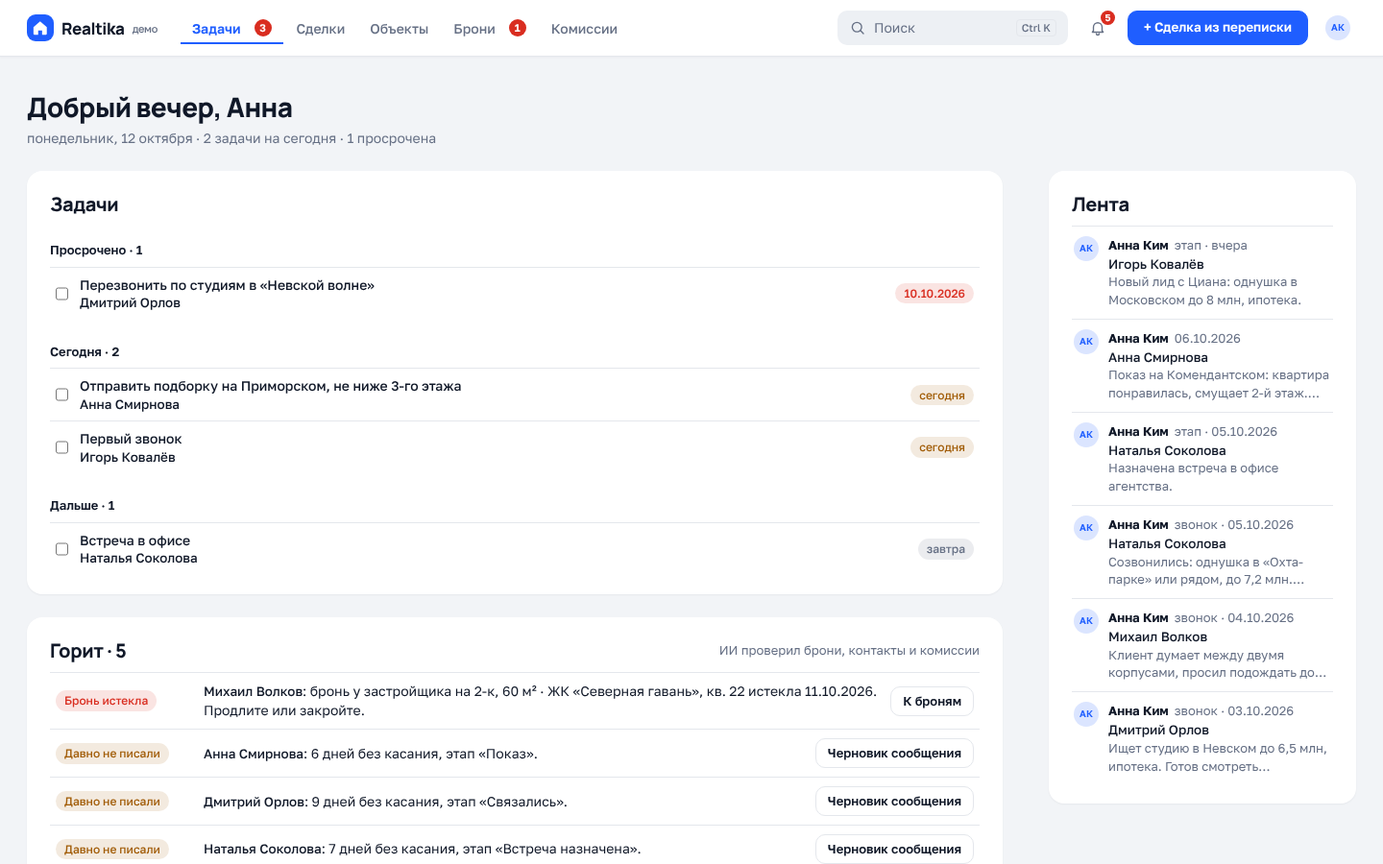
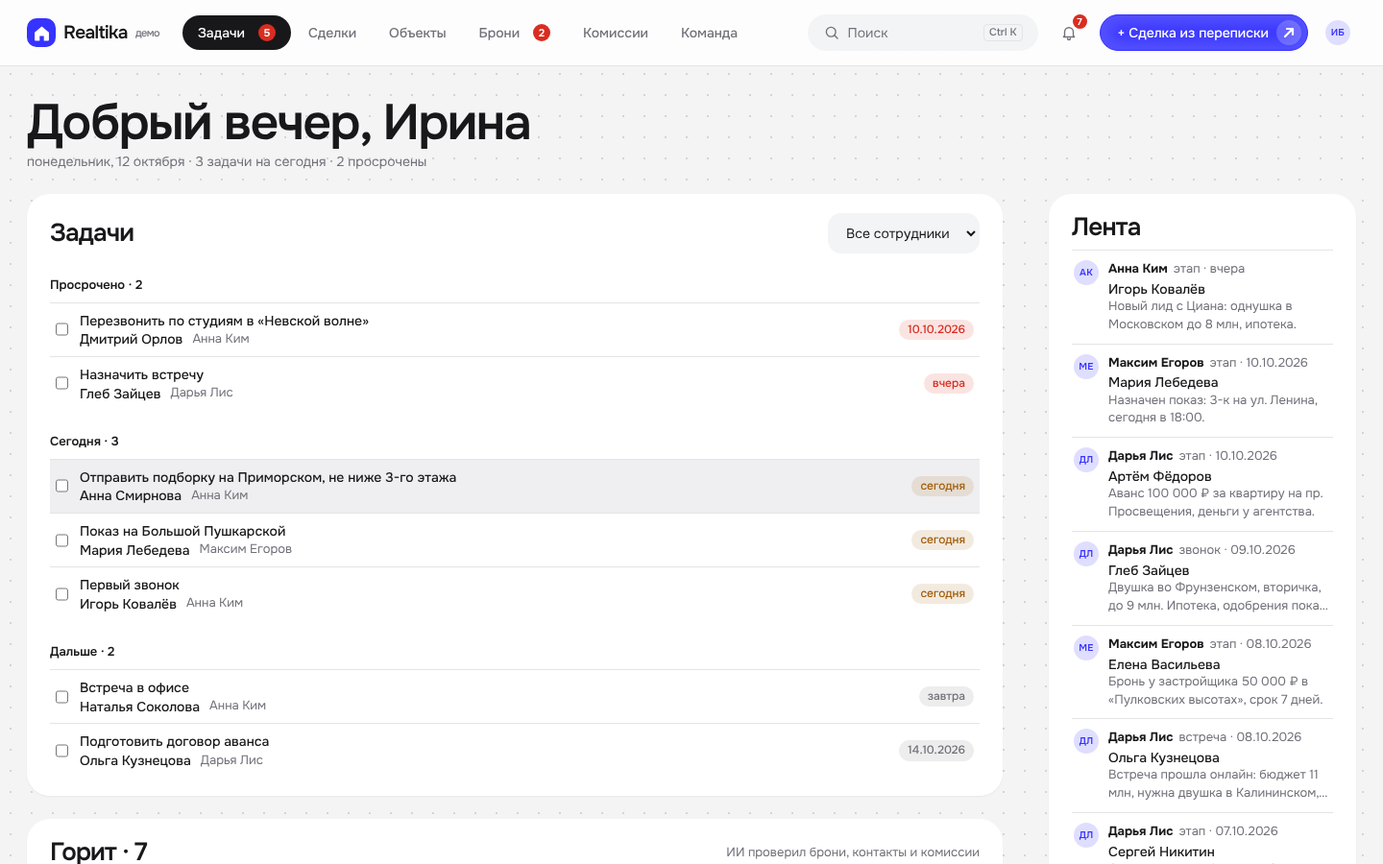
design: TrendAgent palette, Onest type, pill buttons and motion
Indigo/orange on zinc with a dot-grid background, pill buttons with inner glow
and a flying-arrow hover, 3D flipping fact cube on login, staggered fade-up of
blocks on tab open and scroll, card lift with photo zoom, drawer/modal entrance.
Animations stay off under prefers-reduced-motion.

Claude-Session: https://claude.ai/code/session_01WGyjb6ifj2QD7Cnku9bK9v

diff --git a/app/index.html b/app/index.html
@@ -2,22 +2,23 @@
 <title>Realtika</title>
 <link rel="preconnect" href="https://fonts.googleapis.com">
 <link rel="preconnect" href="https://fonts.gstatic.com" crossorigin>
-<link rel="stylesheet" href="https://fonts.googleapis.com/css2?family=Golos+Text:wght@400;500;600;700&family=Manrope:wght@600;700;800&display=swap">
+<link rel="stylesheet" href="https://fonts.googleapis.com/css2?family=Onest:wght@400;500;600;700&display=swap">
 <link rel="stylesheet" href="https://cdn.jsdelivr.net/npm/leaflet@1.9.4/dist/leaflet.css">
 <style>
 /* Layout в духе каталогов новостроек: белая шапка с разделами сверху (на телефоне вкладки снизу), светло-серый фон,
    контент на белых скруглённых плашках, крупные карточки объектов с фото. Сделка выезжает справа. */
-/* Цветовые схемы. Базовая — «Тренд»: белая шапка, холодный серый фон, яркий синий для главного действия.
-   Остальные включаются атрибутом data-palette на <html> из настроек кабинета. */
+/* Цветовые схемы. Базовая — «Тренд»: нейтральный серый фон в точку, белые плашки, индиго для главного действия,
+   оранжевый как второй акцент. Остальные включаются атрибутом data-palette на <html> из настроек кабинета. */
 :root {
-  --bg: #F2F4F7; --surface: #FFFFFF; --sunken: #EDF0F4; --hover: #E6EAF0; --ink: #101828; --muted: #667085; --line: #E4E7EC;
-  --accent: #1F5EFF; --accent-ink: #FFFFFF; --accent-d: #7DA2FF; --accent-ink-d: #050D24;
-  --side-bg: #FFFFFF; --side-ink: #101828; --side-muted: #667085; --side-hover: #EDF0F4; --side-line: #E4E7EC; --side-field: #EDF0F4;
-  --panel: #0B1B3F;
+  --bg: #F4F4F5; --surface: #FFFFFF; --sunken: #F3F4F6; --hover: #E4E4E7; --ink: #18181B; --muted: #71717A; --line: #E4E4E7; --dot: #D4D4D8;
+  --accent: #3733FF; --accent-ink: #FFFFFF; --accent-d: #8F8CFF; --accent-ink-d: #07063A; --hot: #FE4B01;
+  --side-bg: #FFFFFF; --side-ink: #18181B; --side-muted: #71717A; --side-hover: #F3F4F6; --side-line: #E4E4E7; --side-field: #F3F4F6;
+  --panel: #18181B;
   --ok: #12805C; --warn: #A15C07; --crit: #D92D20;
-  --f-display: Manrope, "Golos Text", system-ui, -apple-system, "Segoe UI", Roboto, sans-serif;
-  --f-body: "Golos Text", system-ui, -apple-system, "Segoe UI", Roboto, sans-serif;
-  --r: 16px;
+  --f-display: Onest, system-ui, -apple-system, "Segoe UI", Roboto, sans-serif;
+  --f-body: Onest, system-ui, -apple-system, "Segoe UI", Roboto, sans-serif;
+  --ease: cubic-bezier(.165, .84, .44, 1); /* плавное торможение, как у слайдеров на trendagent.ru */
+  --r: 24px;
   --s1: 8px; --s2: 24px; --s3: 56px; /* внутри элемента / между элементами / между секциями */
 }
 :root[data-palette="graphite"] {
@@ -56,21 +57,22 @@
     --bg: #111213; --surface: #18191B; --sunken: #1F2023; --hover: #232427; --ink: #E9E9E7; --muted: #9C9D99; --line: #2A2B2E;
     --accent: var(--accent-d); --accent-ink: var(--accent-ink-d);
     --side-bg: #141516; --side-ink: #E9E9E7; --side-muted: #9C9D99; --side-hover: #232427; --side-line: #2A2B2E; --side-field: #1B1C1E;
-    --ok: #4CC38A; --warn: #E3A04A; --crit: #F07468; color-scheme: dark;
+    --ok: #4CC38A; --warn: #E3A04A; --crit: #F07468; --dot: #26272A; color-scheme: dark;
   }
 }
 :root[data-theme="dark"] {
   --bg: #111213; --surface: #18191B; --sunken: #1F2023; --hover: #232427; --ink: #E9E9E7; --muted: #9C9D99; --line: #2A2B2E;
   --accent: var(--accent-d); --accent-ink: var(--accent-ink-d);
   --side-bg: #141516; --side-ink: #E9E9E7; --side-muted: #9C9D99; --side-hover: #232427; --side-line: #2A2B2E; --side-field: #1B1C1E;
-  --ok: #4CC38A; --warn: #E3A04A; --crit: #F07468; color-scheme: dark;
+  --ok: #4CC38A; --warn: #E3A04A; --crit: #F07468; --dot: #26272A; color-scheme: dark;
 }
 [hidden] { display: none !important; }
-body { margin: 0; background: var(--bg); color: var(--ink); font: 14px/1.45 var(--f-body); }
+body { margin: 0; background: radial-gradient(circle, var(--dot) 1px, transparent 1.5px) 0 0 / 22px 22px fixed, var(--bg); color: var(--ink); font: 14px/1.45 var(--f-body); }
 .wrap { max-width: 1440px; margin: 0 auto; padding-inline: 16px; box-sizing: border-box; }
 h1, h2, h3 { margin: 0; text-wrap: balance; }
-h1, h2 { font-family: var(--f-display); font-weight: 800; letter-spacing: -.02em; }
-h2 { font-size: 20px; }
+h1, h2 { font-family: var(--f-display); font-weight: 600; letter-spacing: -.03em; }
+h2 { font-size: 26px; line-height: 1.15; }
+.dlg h2 { font-size: 20px; }
 .muted { color: var(--muted); }
 .small { font-size: 13px; }
 :focus-visible { outline: 2px solid var(--accent); outline-offset: 2px; }
@@ -78,9 +80,9 @@ h2 { font-size: 20px; }
 .shell { display: grid; grid-template-columns: 232px minmax(0, 1fr); min-height: 100vh; }
 .side { position: sticky; top: 0; height: 100vh; box-sizing: border-box; background: var(--side-bg); color: var(--side-ink); border-right: 1px solid var(--side-line); padding: 12px 10px; display: flex; flex-direction: column; gap: 10px; }
 .side-head { display: flex; align-items: center; justify-content: space-between; gap: 8px; padding: 2px 4px; }
-.logo { display: flex; align-items: center; gap: 8px; font: 800 17px/1 var(--f-display); letter-spacing: -.02em; }
+.logo { display: flex; align-items: center; gap: 8px; font: 600 19px/1 var(--f-display); letter-spacing: -.03em; }
 .logo small { font: 500 11px/1 var(--f-body); color: var(--side-muted); }
-.mark { width: 28px; height: 28px; border-radius: 9px; background: var(--accent); color: var(--accent-ink); display: grid; place-items: center; flex: none; }
+.mark { width: 30px; height: 30px; border-radius: 10px; background: var(--accent); color: var(--accent-ink); display: grid; place-items: center; flex: none; }
 .mark svg { width: 70%; height: 70%; fill: currentColor; }
 .icon-btn { position: relative; width: 30px; height: 30px; display: grid; place-items: center; border: 0; border-radius: 6px; background: none; color: var(--side-muted); cursor: pointer; }
 .icon-btn:hover { background: var(--side-hover); color: var(--side-ink); }
@@ -107,20 +109,17 @@ nav.tabs { display: grid; gap: 1px; flex: 1; align-content: start; }
 .avatar.big { --size: 88px; }
 
 .login { min-height: 100vh; min-height: 100dvh; display: grid; place-items: center; padding-block: 24px; box-sizing: border-box; }
-.login-card { width: min(900px, 100%); display: grid; grid-template-columns: 1fr 1fr; background: var(--surface); border-radius: 24px; box-shadow: 0 24px 48px rgb(16 24 40 / .08); overflow: hidden; }
-.login-brand { background: var(--panel); color: #F4F3F1; padding: 40px; display: grid; gap: 18px; align-content: space-between; }
+.login-card { width: min(960px, 100%); display: grid; grid-template-columns: 1fr 1fr; gap: 8px; padding: 8px; box-sizing: border-box; background: var(--surface); border-radius: 32px; box-shadow: 0 24px 48px rgb(16 24 40 / .08); overflow: hidden; }
+.login-brand { background: var(--panel); color: #F4F3F1; border-radius: 26px; padding: 36px; display: grid; gap: 18px; align-content: space-between; }
 .login-brand .logo { font-size: 24px; gap: 10px; }
-.login-brand .mark { width: 32px; height: 32px; border-radius: 8px; }
-.login-brand .lead { font-size: 17px; line-height: 1.4; margin: 0; max-width: 30ch; }
-.login-brand ul { margin: 0; padding: 0; list-style: none; display: grid; gap: 10px; }
-.login-brand li { display: flex; gap: 10px; align-items: start; }
-.login-brand li::before { content: ""; width: 6px; height: 6px; margin-top: 8px; border-radius: 50%; background: currentColor; opacity: .5; flex: none; }
+.login-brand .mark { width: 32px; height: 32px; border-radius: 10px; }
+.login-brand .lead { font: 500 30px/1.1 var(--f-display); letter-spacing: -.03em; margin: 0; max-width: 16ch; }
 .login-brand .fine { font-size: 12px; opacity: .8; margin: 0; }
 .login-form { padding: 40px; display: grid; gap: 14px; align-content: start; }
 .login-form h1 { font-size: 24px; }
 .login-form .btn.primary { padding-block: 11px; justify-content: center; }
 .demo-acc { display: grid; gap: 6px; border-top: 1px solid var(--line); padding-top: 14px; margin-top: 4px; }
-.acc { display: flex; align-items: center; gap: 10px; width: 100%; text-align: left; font: inherit; color: var(--ink); background: var(--sunken); border: 0; border-radius: 12px; padding: 8px 12px; cursor: pointer; }
+.acc { display: flex; align-items: center; gap: 10px; width: 100%; text-align: left; font: inherit; color: var(--ink); background: var(--sunken); border: 0; border-radius: 999px; padding: 6px 16px 6px 6px; cursor: pointer; }
 .acc:hover { background: var(--hover); }
 .acc .avatar { --size: 30px; }
 .acc small { display: block; color: var(--muted); font-size: 12px; }
@@ -136,11 +135,17 @@ nav.tabs { display: grid; gap: 1px; flex: 1; align-content: start; }
 .panel { border-top: 1px solid var(--line); padding-top: 16px; display: grid; gap: 12px; }
 .panel h3 { font-size: 15px; }
 
-.btn { font: 600 13.5px/1.3 var(--f-body); padding: 8px 16px; border-radius: 10px; border: 1px solid var(--line); background: var(--surface); color: var(--ink); cursor: pointer; white-space: nowrap; }
+.btn { font: 500 14px/1.3 var(--f-body); padding: 9px 18px; border-radius: 999px; border: 1px solid var(--line); background: var(--surface); color: var(--ink); cursor: pointer; white-space: nowrap; }
 .btn:hover { border-color: color-mix(in srgb, var(--ink) 28%, var(--line)); }
 .btn.primary:hover { background: color-mix(in srgb, var(--accent) 88%, var(--ink)); }
 .btn:disabled { opacity: .4; cursor: default; }
 .btn.primary { background: var(--accent); border-color: var(--accent); color: var(--accent-ink); }
+.btn.primary:not(:hover):not(:disabled) { box-shadow: inset 0 0 15px 10px rgb(255 255 255 / .15); }
+.btn:active:not(:disabled) { transform: scale(.98); }
+/* Круг со стрелкой в главной кнопке: при наведении стрелка улетает вверх-вправо, новая прилетает снизу-слева */
+.arr { position: relative; width: 26px; height: 26px; margin: -4px -12px -4px 8px; border-radius: 50%; background: rgb(255 255 255 / .2); overflow: hidden; display: inline-block; vertical-align: middle; flex: none; }
+.arr svg { position: absolute; inset: 7px; width: 12px; height: 12px; fill: none; stroke: currentColor; stroke-width: 2.2; stroke-linecap: round; stroke-linejoin: round; }
+.arr svg + svg { transform: translate(-130%, 130%); }
 .btn.sm { padding: 6px 12px; font-size: 13px; }
 a.btn { text-decoration: none; display: inline-flex; align-items: center; gap: 6px; }
 .btn.call svg { width: 15px; height: 15px; fill: none; stroke: currentColor; stroke-width: 2; stroke-linejoin: round; }
@@ -162,7 +167,7 @@ main { max-width: 1400px; padding-block: 32px 64px; display: grid; grid-template
 
 .stats { display: flex; flex-wrap: wrap; gap: var(--s2) 48px; }
 .stat { display: grid; gap: 2px; }
-.stat b { font: 600 20px/1.25 var(--f-body); font-variant-numeric: tabular-nums; letter-spacing: -.01em; }
+.stat b { font: 600 26px/1.15 var(--f-display); letter-spacing: -.03em; font-variant-numeric: tabular-nums; letter-spacing: -.01em; }
 
 .list { border-top: 1px solid var(--line); }
 .list > * { border-bottom: 1px solid var(--line); }
@@ -177,10 +182,10 @@ main { max-width: 1400px; padding-block: 32px 64px; display: grid; grid-template
 .empty { padding: 16px 6px; color: var(--muted); }
 
 .kanban { display: grid; grid-auto-flow: column; grid-auto-columns: minmax(200px, 1fr); gap: 10px; overflow-x: auto; padding-bottom: 8px; align-items: start; }
-.col { background: var(--hover); border-radius: 14px; padding: 8px; display: grid; gap: 8px; align-content: start; min-height: 120px; }
+.col { background: color-mix(in srgb, var(--hover) 70%, transparent); border-radius: 20px; padding: 8px; display: grid; gap: 8px; align-content: start; min-height: 120px; }
 .col.over { outline: 2px dashed var(--accent); outline-offset: -2px; }
 .col h3 { font-size: 13px; font-weight: 600; color: var(--ink); display: flex; justify-content: space-between; gap: 8px; padding: 2px 4px; }
-.card { display: grid; gap: 3px; width: 100%; text-align: left; font: inherit; color: inherit; background: var(--surface); border: 1px solid transparent; border-radius: 12px; padding: 10px 12px; cursor: grab; box-shadow: 0 1px 2px rgb(16 24 40 / .06); }
+.card { display: grid; gap: 3px; width: 100%; text-align: left; font: inherit; color: inherit; background: var(--surface); border: 1px solid transparent; border-radius: 16px; padding: 12px 14px; cursor: grab; box-shadow: 0 1px 2px rgb(16 24 40 / .06); }
 .card:hover { border-color: color-mix(in srgb, var(--ink) 25%, var(--line)); }
 .card.dragging { opacity: .45; }
 .card strong { font-weight: 600; }
@@ -218,7 +223,7 @@ dt { color: var(--muted); } dd { margin: 0; }
 .err { color: var(--crit); font-size: 13px; margin: 0; }
 
 label { font-size: 12.5px; font-weight: 500; color: var(--muted); }
-input, select, textarea { font: inherit; padding: 9px 12px; border: 1px solid transparent; border-radius: 10px; background: var(--sunken); color: var(--ink); width: 100%; box-sizing: border-box; }
+input, select, textarea { font: inherit; padding: 10px 14px; border: 1px solid transparent; border-radius: 14px; background: var(--sunken); color: var(--ink); width: 100%; box-sizing: border-box; }
 input:focus, select:focus, textarea:focus { outline: none; background: var(--surface); border-color: var(--accent); box-shadow: 0 0 0 3px color-mix(in srgb, var(--accent) 18%, transparent); }
 input[type="checkbox"] { width: auto; }
 textarea { resize: vertical; }
@@ -236,7 +241,7 @@ textarea { resize: vertical; }
 .toast button { font: 600 14px var(--f-body); color: inherit; background: none; border: 0; padding: 0; cursor: pointer; text-decoration: underline; }
 .toast[hidden] { display: none; }
 .btn[aria-busy="true"] { opacity: .7; cursor: progress; }
-.toast { display: flex; align-items: center; gap: 16px; position: fixed; left: 50%; bottom: calc(20px + env(safe-area-inset-bottom, 0px)); transform: translateX(-50%); background: var(--ink); color: var(--bg); padding: 10px 16px; border-radius: 8px; font-size: 14px; z-index: 1000; max-width: calc(100% - 32px); box-sizing: border-box; }
+.toast { display: flex; align-items: center; gap: 16px; position: fixed; left: 50%; bottom: calc(20px + env(safe-area-inset-bottom, 0px)); transform: translateX(-50%); background: var(--ink); color: var(--bg); padding: 12px 20px; border-radius: 999px; font-size: 14px; z-index: 1000; max-width: calc(100% - 32px); box-sizing: border-box; }
 @media (max-width: 640px) { .stage-row { grid-template-columns: 1fr 1fr; } }
 
 .invoice { border: 1px solid var(--line); border-radius: 8px; padding: 16px; display: grid; gap: 12px; background: var(--bg); }
@@ -275,20 +280,21 @@ dialog.modal.wide { width: min(860px, calc(100% - 32px)); }
 .filters .wide-field { grid-column: 1 / -1; }
 .range { display: grid; grid-template-columns: 1fr 1fr; gap: 6px; }
 .lbl { font-size: 12.5px; font-weight: 500; color: var(--muted); }
-.seg { display: inline-flex; gap: 2px; padding: 3px; background: var(--sunken); border-radius: 12px; }
-.seg .btn { border: 0; border-radius: 9px; background: none; }
+.seg { display: inline-flex; gap: 2px; padding: 3px; background: var(--sunken); border-radius: 999px; }
+.seg .btn { border: 0; background: none; }
 .seg .btn[aria-pressed="true"] { background: var(--surface); color: var(--ink); box-shadow: 0 1px 3px rgb(16 24 40 / .12); }
 .results { display: grid; grid-template-columns: repeat(auto-fill, minmax(280px, 1fr)); gap: 20px; }
-.rcard { background: var(--surface); border-radius: var(--r); box-shadow: 0 1px 2px rgb(16 24 40 / .05); transition: box-shadow .2s, transform .2s; overflow: hidden; display: grid; grid-template-rows: auto 1fr; grid-template-columns: minmax(0, 1fr); }
+.rcard { background: var(--surface); border-radius: var(--r); box-shadow: 0 1px 2px rgb(16 24 40 / .05); transition: box-shadow .2s; overflow: hidden; display: grid; grid-template-rows: auto 1fr; grid-template-columns: minmax(0, 1fr); }
 .rcard:hover { box-shadow: 0 12px 28px rgb(16 24 40 / .12); }
 .rphoto { display: block; position: relative; padding: 0; border: 0; background: var(--sunken); cursor: pointer; aspect-ratio: 4 / 3; width: 100%; }
 .rphoto img, .rphoto svg, .gallery img, .gallery svg { width: 100%; height: 100%; object-fit: cover; display: block; }
-.badge { position: absolute; left: 12px; top: 12px; font: 600 12px/1 var(--f-body); padding: 6px 10px; border-radius: 999px; background: rgb(255 255 255 / .92); color: #101828; }
+.rphoto { overflow: hidden; }
+.badge { position: absolute; left: 12px; top: 12px; z-index: 1; font: 500 12px/1 var(--f-body); padding: 7px 12px; border-radius: 999px; background: var(--hot); color: #fff; }
 .rbody { padding: 16px 18px 18px; display: grid; gap: 8px; align-content: start; }
 .rtitle { display: flex; flex-wrap: wrap; justify-content: space-between; gap: 4px 8px; align-items: start; }
-.rtitle .btn.link { color: var(--ink); font: 700 16px/1.3 var(--f-display); text-decoration: none; }
+.rtitle .btn.link { color: var(--ink); font: 600 17px/1.3 var(--f-display); letter-spacing: -.02em; text-decoration: none; }
 .rtitle .btn.link:hover { color: var(--accent); }
-.price { font: 800 21px/1.2 var(--f-display); letter-spacing: -.01em; font-variant-numeric: tabular-nums; }
+.price { font: 600 22px/1.2 var(--f-display); letter-spacing: -.03em; font-variant-numeric: tabular-nums; }
 .ulist { list-style: none; margin: 0; padding: 0; display: grid; gap: 2px; font-size: 13px; }
 .ulist li { display: flex; justify-content: space-between; gap: 8px; font-variant-numeric: tabular-nums; }
 .ulist .btn.link { color: var(--ink); text-decoration: none; }
@@ -305,7 +311,7 @@ dialog.modal.wide { width: min(860px, calc(100% - 32px)); }
 .info { color: var(--ok); font-size: 13px; margin: 0; }
 
 .hello { display: grid; gap: 2px; }
-.hello h1 { font-size: 28px; }
+.hello h1 { font-size: clamp(32px, 4vw, 52px); line-height: 1.05; }
 .dash { display: grid; grid-template-columns: minmax(0, 1fr) 320px; gap: 48px; align-items: start; }
 .hello + .dash { margin-top: calc(var(--s2) - var(--s3)); }
 .dash-main { display: grid; gap: var(--s2); min-width: 0; }
@@ -331,21 +337,22 @@ dialog.modal.search { margin-top: 12vh; width: min(580px, calc(100% - 32px)); }
 /* Компьютер: меню — горизонтальная белая шапка сверху вместо колонки слева */
 @media (min-width: 641px) {
   .shell { display: block; }
-  .side { position: sticky; top: 0; z-index: 40; height: auto; flex-direction: row; align-items: center; gap: 4px 12px; padding: 10px 28px; border-right: 0; border-bottom: 1px solid var(--side-line); box-shadow: 0 1px 2px rgb(16 24 40 / .04); }
+  .side { position: sticky; top: 0; z-index: 40; height: auto; flex-direction: row; align-items: center; gap: 4px 12px; padding: 14px 28px; border-right: 0; border-bottom: 1px solid var(--side-line); background: color-mix(in srgb, var(--side-bg) 82%, transparent); -webkit-backdrop-filter: blur(14px); backdrop-filter: blur(14px); }
   .side-head { display: contents; }
   .side .logo { order: 0; margin-right: 12px; }
   nav.tabs { order: 1; display: flex; flex: 1; gap: 2px; }
-  .tab { padding: 8px 12px; border-radius: 10px; white-space: nowrap; }
+  .tab { padding: 9px 16px; border-radius: 999px; white-space: nowrap; }
   .tab svg { display: none; }
-  .tab[aria-current="page"] { background: none; color: var(--accent); box-shadow: inset 0 -2px 0 var(--accent); border-radius: 0; }
+  .tab[aria-current="page"] { background: var(--ink); color: var(--surface); font-weight: 500; }
   .tab b { margin-left: 4px; }
-  .side-search { order: 2; width: 240px; border: 0; border-radius: 10px; padding: 8px 12px; }
-  .side .icon-btn { order: 3; width: 38px; height: 38px; border-radius: 10px; }
+  .side-search { order: 2; width: 240px; border: 0; border-radius: 999px; padding: 9px 16px; }
+  .side .icon-btn { order: 3; width: 40px; height: 40px; border-radius: 50%; }
   .side-new { order: 4; width: auto; }
   .me { order: 5; width: auto; }
   .me-name { display: none; }
   .main-col { max-width: 1400px; margin: 0 auto; }
 }
+@media (min-width: 641px) and (max-width: 1320px) { .side-search { width: 180px; } .side-search kbd { display: none; } }
 @media (min-width: 641px) and (max-width: 1100px) {
   .side { flex-wrap: wrap; padding-inline: 16px; }
   .side-search { width: auto; }
@@ -371,13 +378,15 @@ footer { padding-block: 16px 32px; border-top: 1px solid var(--line); display: f
   .side-search { width: auto; padding: 6px; border: 0; background: none; }
   .side-search span, .side-search kbd { display: none; }
   .main-col { padding-inline: 16px; }
+  .side-new .arr { display: none; }
   .side-new { width: auto; position: fixed; right: 16px; bottom: calc(78px + env(safe-area-inset-bottom, 0px)); z-index: 51; border-radius: 999px; padding: 12px 18px; box-shadow: 0 4px 14px rgb(0 0 0 / .25); }
   .me { width: auto; padding: 2px; }
   .me-name { display: none; }
   .login-card { grid-template-columns: 1fr; border-radius: 12px; }
   .login-brand, .login-form { padding: 24px 20px; }
   .login-brand .logo { font-size: 28px; }
-  .login-brand ul, .login-brand .fine { display: none; }
+  .login-brand .flip, .login-brand .fine { display: none; }
+  .login-brand .lead { font-size: 22px; }
   nav.tabs { position: fixed; left: 0; right: 0; bottom: 0; z-index: 50; display: grid; grid-auto-flow: column; grid-auto-columns: 1fr; gap: 0;
     background: var(--surface); border-top: 1px solid var(--line); padding: 4px 2px calc(4px + env(safe-area-inset-bottom, 0px)); }
   .tab { flex-direction: column; align-items: center; gap: 2px; font-size: 11px; padding: 6px 2px; border-radius: 8px; position: relative; }
@@ -419,8 +428,34 @@ footer { padding-block: 16px 32px; border-top: 1px solid var(--line); display: f
   .tbl.cards td:last-child:empty { display: none; }
 }
 @media (prefers-reduced-motion: no-preference) {
-  .card, .btn { transition: border-color .15s; }
+  .btn, .tab, .acc, .seg .btn { transition: background-color .2s, border-color .2s, box-shadow .2s, color .2s, transform .2s; }
+  .arr svg { transition: transform .32s cubic-bezier(.4, 0, .6, 1); }
+  .btn:hover .arr svg:first-child { transform: translate(130%, -130%); }
+  .btn:hover .arr svg + svg { transform: none; }
+  .card { transition: border-color .2s, transform .3s var(--ease), box-shadow .3s; }
+  .card:hover { transform: translateY(-2px); box-shadow: 0 8px 20px rgb(24 24 27 / .08); }
+  .rcard { transition: transform .4s var(--ease), box-shadow .4s; }
+  .rcard:hover { transform: translateY(-6px); }
+  .rphoto img, .rphoto svg { transition: transform .6s var(--ease); }
+  .rcard:hover .rphoto img, .rcard:hover .rphoto svg { transform: scale(1.05); }
+  /* Появление контента при открытии раздела и при прокрутке: снизу с затуханием, по очереди */
+  .rise:not(.in) { opacity: 0; }
+  .rise.in { animation: rise .8s var(--ease) calc(var(--i, 0) * 70ms) backwards; }
+  dialog.drawer[open] { animation: drawer-in .45s var(--ease); }
+  dialog.modal[open] { animation: pop-in .35s var(--ease); }
+  .flip-cube { transition: transform .6s var(--ease); }
 }
+@keyframes rise { from { opacity: 0; transform: translateY(28px); } }
+@keyframes drawer-in { from { transform: translateX(100%); } }
+@keyframes pop-in { from { opacity: 0; transform: translateY(16px) scale(.98); } }
+/* Вращающийся куб с фактами на экране входа, как счётчики на trendagent.ru */
+.flip { --h: 112px; height: var(--h); perspective: 800px; border-radius: 999px; background: var(--hot); overflow: hidden; }
+.flip-cube { position: relative; height: 100%; margin: 0; padding: 0; list-style: none; transform-style: preserve-3d; transform: translateZ(calc(var(--h) / -2)) rotateX(calc(var(--k, 0) * -90deg)); }
+.flip li { position: absolute; inset: 0; display: grid; place-content: center; text-align: center; padding: 0 32px; color: #fff; font: 500 19px/1.25 var(--f-display); letter-spacing: -.02em; backface-visibility: hidden; }
+.flip li:nth-child(1) { transform: rotateX(0deg) translateZ(calc(var(--h) / 2)); }
+.flip li:nth-child(2) { transform: rotateX(90deg) translateZ(calc(var(--h) / 2)); }
+.flip li:nth-child(3) { transform: rotateX(180deg) translateZ(calc(var(--h) / 2)); }
+.flip li:nth-child(4) { transform: rotateX(270deg) translateZ(calc(var(--h) / 2)); }
 </style>
 
 <section id="login" class="login wrap" hidden></section>
@@ -429,7 +464,7 @@ footer { padding-block: 16px 32px; border-top: 1px solid var(--line); display: f
     <div class="side-head"><span class="logo"><span class="mark" aria-hidden="true"><svg viewBox="0 0 24 24"><path d="M3.5 11.2 12 4l8.5 7.2V20a1 1 0 0 1-1 1h-5v-5.5h-5V21h-5a1 1 0 0 1-1-1z"/></svg></span>Realtika<small>демо</small></span>
       <button class="icon-btn" data-act="notif" aria-label="Уведомления"><svg viewBox="0 0 24 24" aria-hidden="true"><path d="M6 16V11a6 6 0 0 1 12 0v5l1.5 2h-15z"/><path d="M10 20a2 2 0 0 0 4 0"/></svg><b id="notif-count" hidden></b></button></div>
     <button class="side-search" data-act="search" aria-label="Поиск"><svg viewBox="0 0 24 24" aria-hidden="true"><circle cx="11" cy="11" r="6.5"/><path d="M20 20l-4.2-4.2"/></svg><span>Поиск</span><kbd>Ctrl K</kbd></button>
-    <button class="btn primary side-new" data-act="import-open">+ Сделка<span class="only-desktop">&nbsp;из переписки</span></button>
+    <button class="btn primary side-new" data-act="import-open">+ Сделка<span class="only-desktop">&nbsp;из переписки</span><span class="arr" aria-hidden="true"><svg viewBox="0 0 12 12"><path d="M2 10 10 2M4 2h6v6"/></svg><svg viewBox="0 0 12 12"><path d="M2 10 10 2M4 2h6v6"/></svg></span></button>
     <nav class="tabs" id="tabs" aria-label="Разделы"></nav>
     <button class="me" id="me" data-act="tab" data-tab="profile" aria-label="Личный кабинет"></button>
   </aside>
@@ -461,6 +496,7 @@ const TAB_ICONS = {
 };
 const PAYMENTS = ['', 'ипотека', 'наличные', 'рассрочка'];
 const DAY = 864e5;
+const ARR = '<span class="arr" aria-hidden="true"><svg viewBox="0 0 12 12"><path d="M2 10 10 2M4 2h6v6"/></svg><svg viewBox="0 0 12 12"><path d="M2 10 10 2M4 2h6v6"/></svg></span>';
 
 const pad = n => String(n).padStart(2, '0');
 const today = () => { const d = new Date(); d.setHours(0, 0, 0, 0); return d; };
@@ -899,14 +935,14 @@ function renderLogin(email = '') {
   $('login').innerHTML = `<div class="login-card">
     <div class="login-brand"><div class="logo"><span class="mark" aria-hidden="true"><svg viewBox="0 0 24 24"><path d="M3.5 11.2 12 4l8.5 7.2V20a1 1 0 0 1-1 1h-5v-5.5h-5V21h-5a1 1 0 0 1-1-1z"/></svg></span>Realtika</div>
       <p class="lead">CRM для агентств недвижимости, которую заполняет ИИ</p>
-      <ul><li>Сделка из переписки за пару секунд</li><li>Брони, показы и комиссии под контролем</li><li>Подбор квартиры прямо на встрече с клиентом</li></ul>
+      <div class="flip"><ul class="flip-cube"><li>Сделка из переписки за пару секунд</li><li>Брони, показы и комиссии под контролем</li><li>Подбор квартиры прямо на встрече с клиентом</li><li>Карта и шахматка новостроек</li></ul></div>
       <p class="fine">Демо-версия на вымышленных данных</p></div>
     <form id="login-form" class="login-form">
       <h1>Вход в кабинет</h1>
       <div class="field"><label for="lg-email">Почта</label><input id="lg-email" type="email" autocomplete="username" required value="${esc(email)}" placeholder="name@agency.ru"></div>
       <div class="field"><label for="lg-pass">Пароль</label><input id="lg-pass" type="password" autocomplete="current-password" required></div>
       <p class="err" id="lg-err" role="alert" hidden></p>
-      <button class="btn primary" type="submit">Войти</button>
+      <button class="btn primary" type="submit">Войти${ARR}</button>
       <button type="button" class="btn link small" data-act="forgot" style="justify-self:start">Забыли пароль?</button>
       <div class="demo-acc"><span class="lbl">Демо-аккаунты, пароль demo</span>
         ${S.users.map(u => `<button type="button" class="acc" data-act="demo-login" data-id="${u.id}">${avatar(u)}<span>${esc(u.name)}<small>${ROLES[u.role]}</small></span></button>`).join('')}</div>
@@ -923,6 +959,7 @@ function logIn(id, restore = false) {
   try { localStorage.setItem(SK, id); } catch (e) {}
   ui = { dealId: null, placeId: null, unitId: null, rooms: null, draft: false, editing: false, preview: null, stageErr: '' }; filterAgent = '';
   if (!restore) tab = 'tasks';
+  shownTab = '';
   save(); applyTheme();
   $('login').hidden = true; $('app').hidden = false;
   render(); window.scrollTo(0, 0);
@@ -967,6 +1004,21 @@ views.profile = () => {
     </div></section>`;
 };
 
+// Плавное появление блоков раздела: видимые сразу — по очереди, остальные — когда доскроллили
+let shownTab = '';
+const io = 'IntersectionObserver' in window && new IntersectionObserver(es => es.filter(e => e.isIntersecting).forEach((e, n) => {
+  e.target.style.setProperty('--i', Math.min(n, 8)); e.target.classList.add('in'); io.unobserve(e.target);
+}), { rootMargin: '0px 0px -40px' });
+function reveal(root) {
+  if (!io || matchMedia('(prefers-reduced-motion: reduce)').matches) return;
+  root.querySelectorAll('.hello, .section-head, .filters, .dash-main > .section, .dash > aside, .col, .rcard, .tbl, .stats, #map').forEach(el => {
+    el.classList.add('rise'); io.observe(el);
+  });
+}
+// Куб с фактами на экране входа поворачивается на грань каждые 2,6 с
+let flipK = 0;
+setInterval(() => { const c = document.querySelector('#login:not([hidden]) .flip-cube'); if (c) c.style.setProperty('--k', ++flipK); }, 2600);
+
 function render() {
   const c = can();
   if ((tab === 'team' && !c.all) || !views[tab]) tab = 'tasks';
@@ -980,6 +1032,7 @@ function render() {
   if (map) { map.remove(); map = null; }
   $('view').innerHTML = views[tab]();
   if (tab === 'objects') fillResults();
+  if (tab !== shownTab) { shownTab = tab; reveal($('view')); }
   // подписи колонок для таблиц, которые на телефоне показываются карточками
   document.querySelectorAll('.tbl.cards table').forEach(t => {
     const hs = [...t.querySelectorAll('thead th')].map(th => th.textContent);
